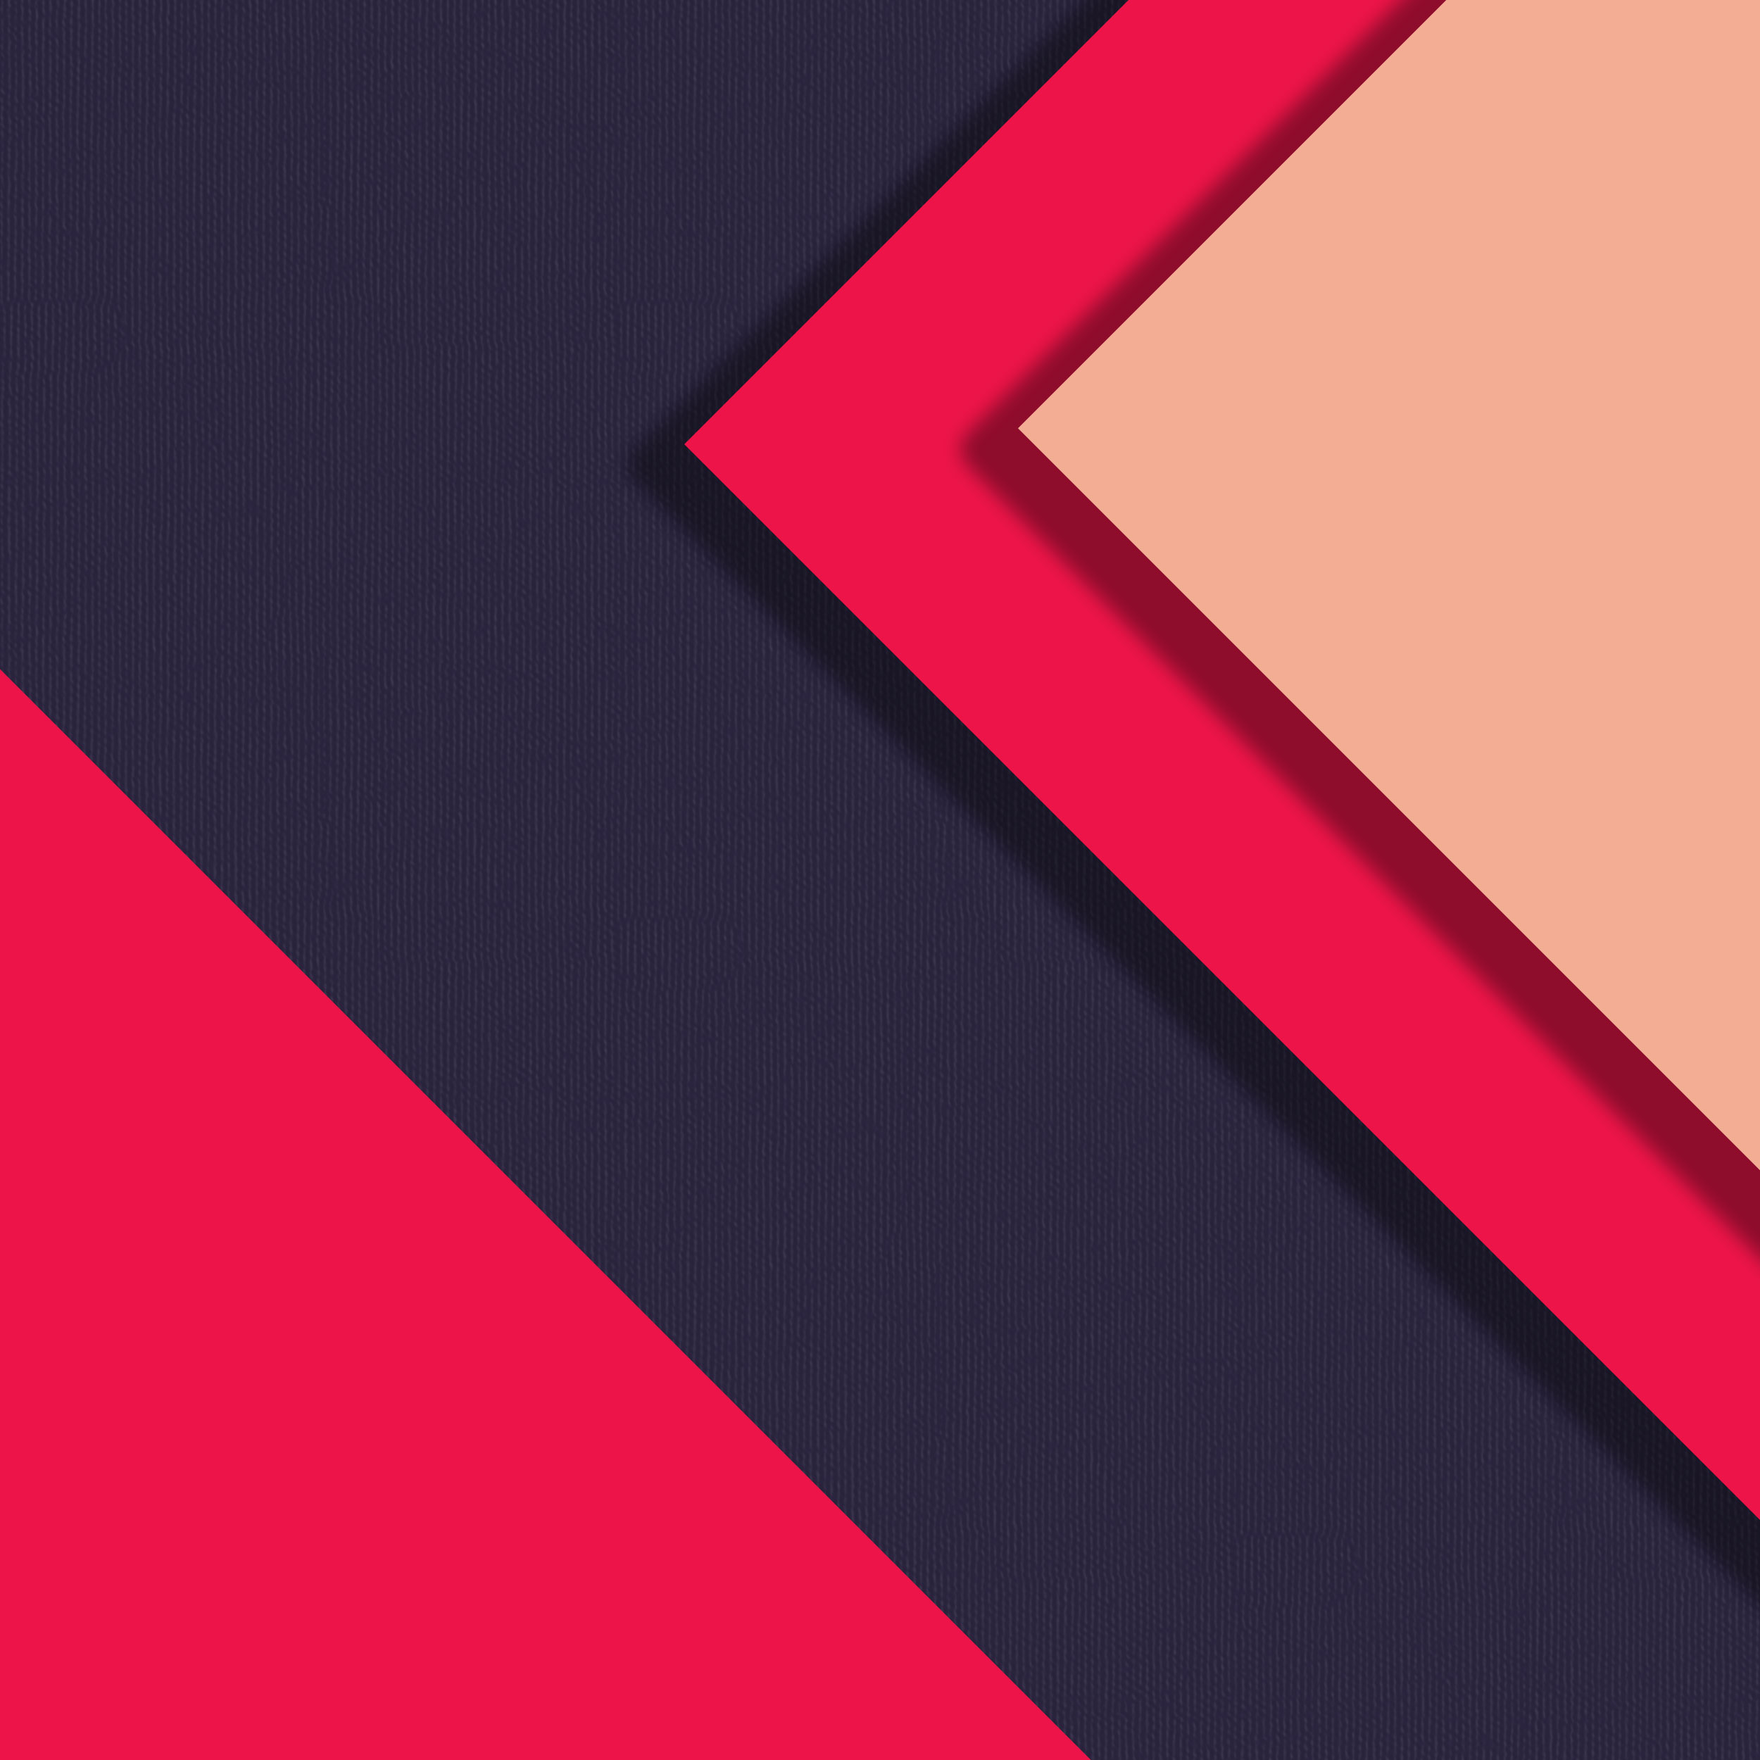
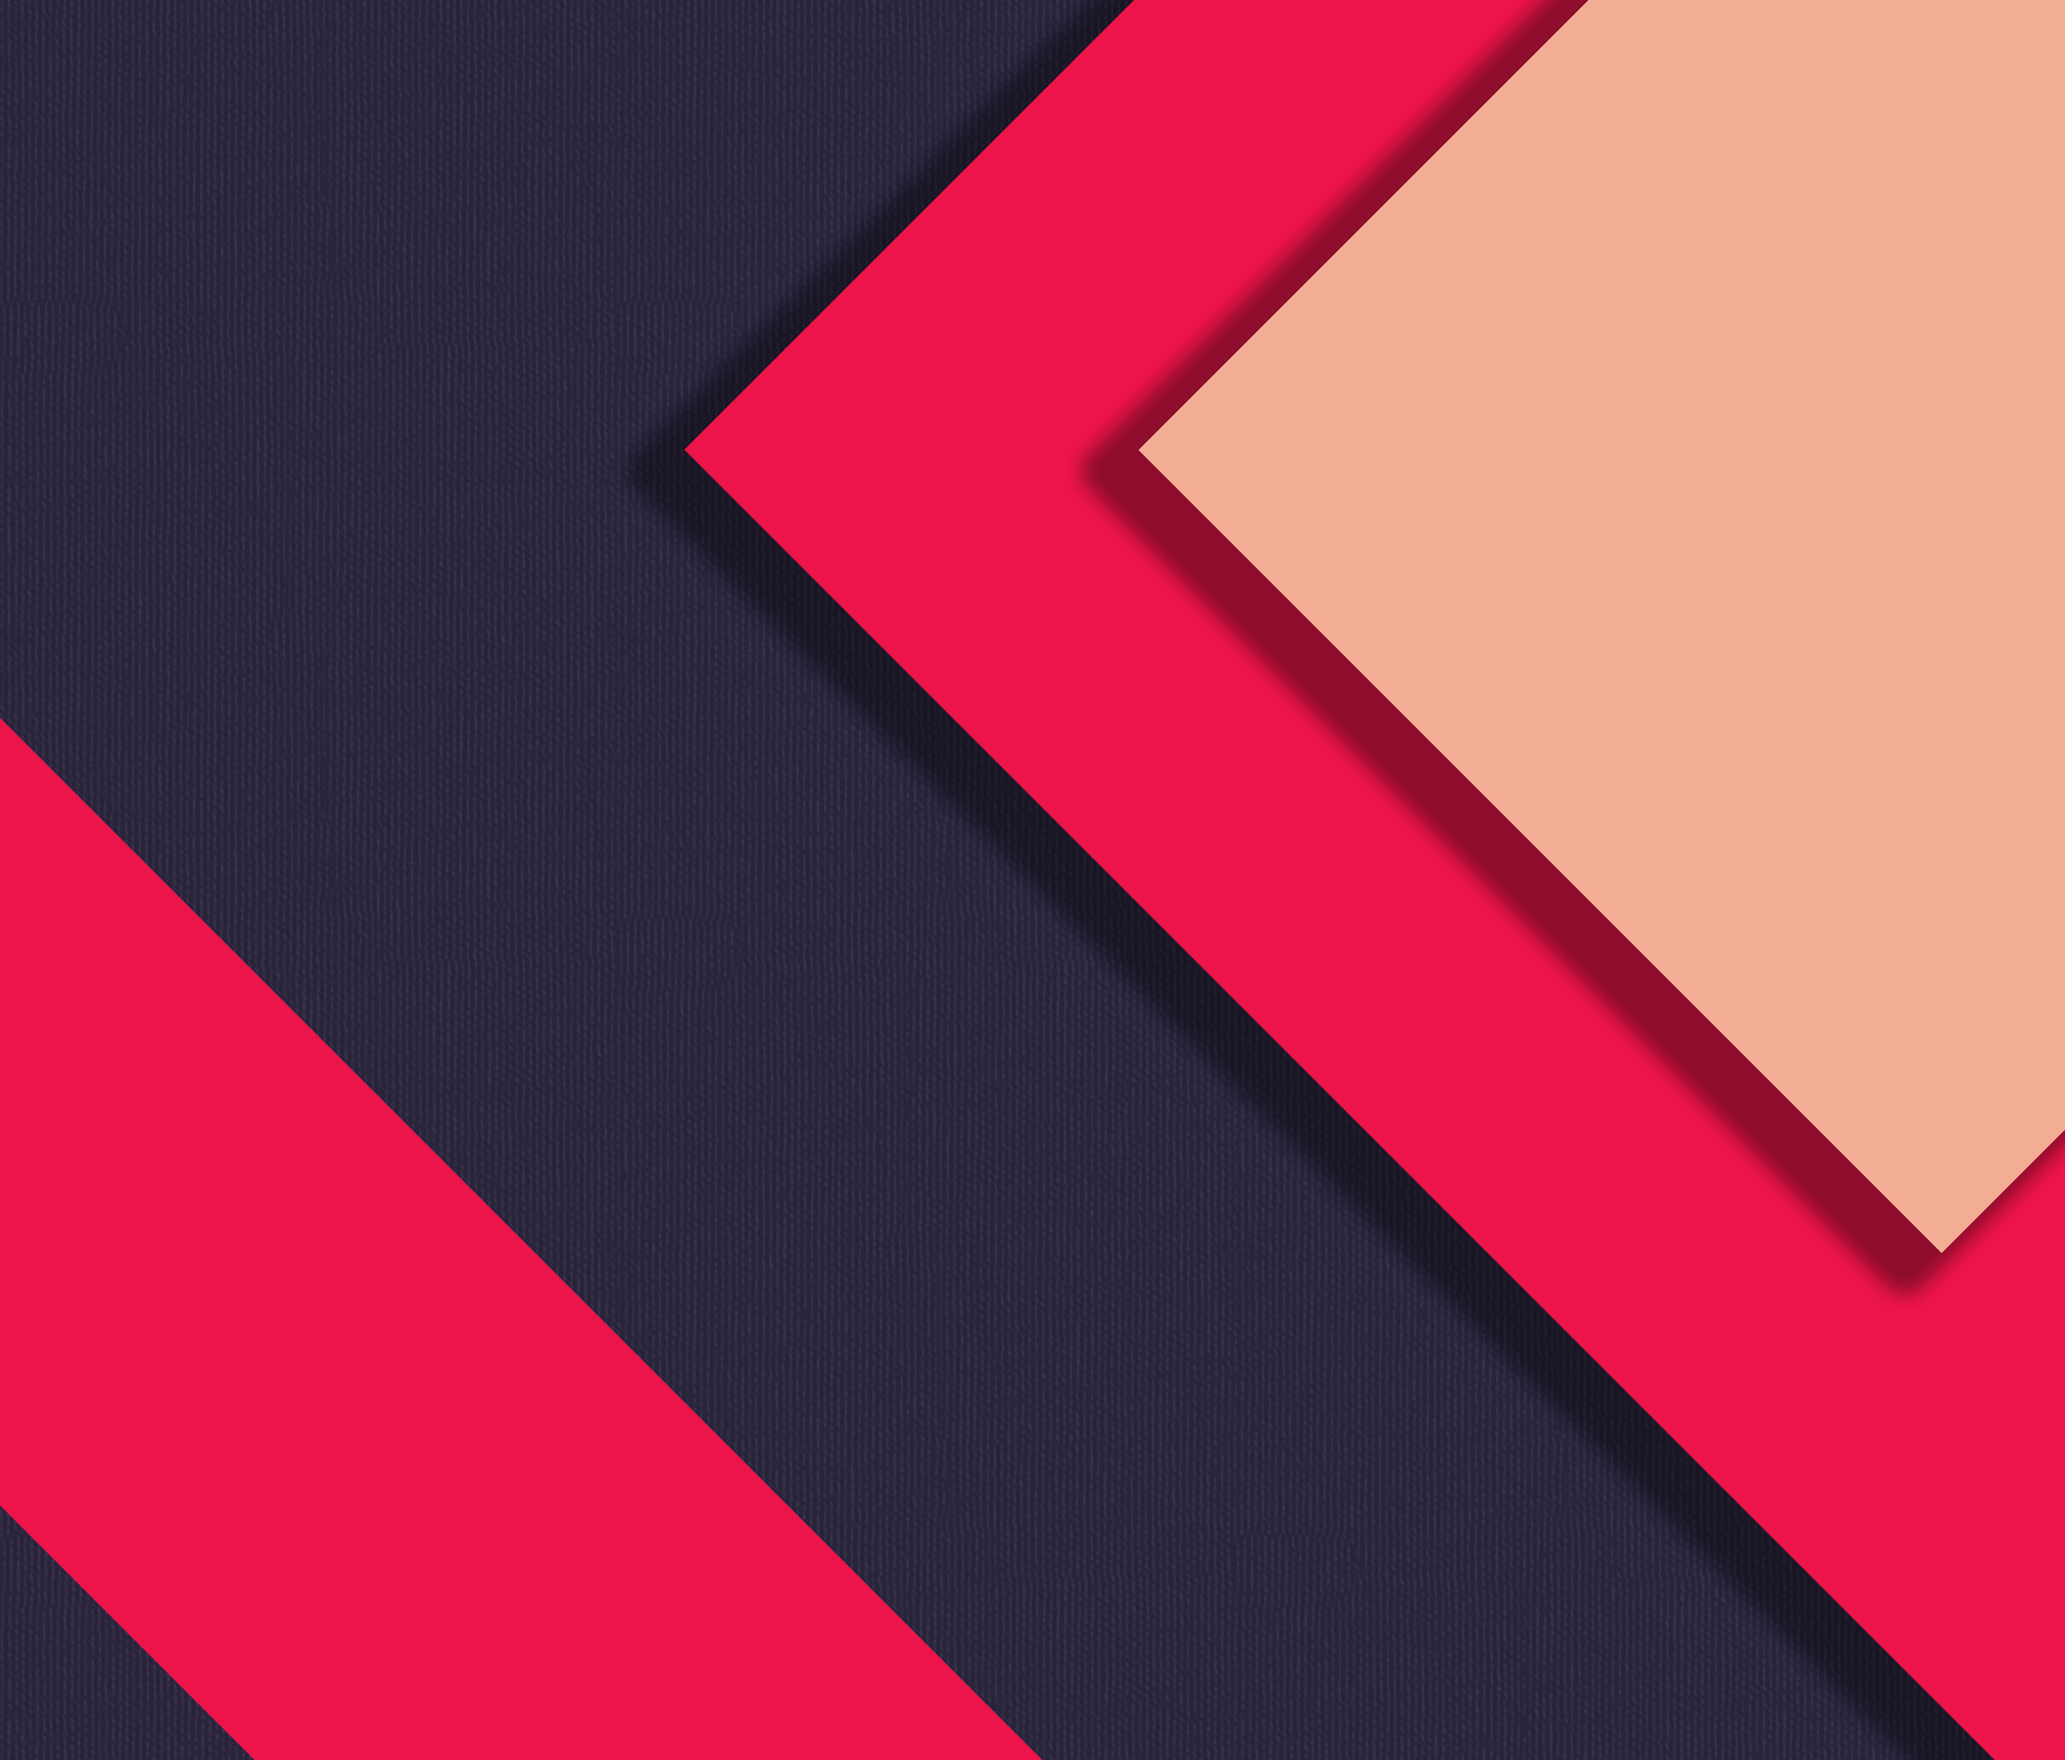
mobile bg fix

diff --git a/js/main.js b/js/main.js
@@ -78,11 +78,11 @@ function init() {
 $('#about-btn').on('click', function() {
   if ($(window).width() < 768) {
     $('body').css({
-      'background-position': '-450px -209px'
+      'background-position': '-450px -215px'
     });
   } else {
     $('body').css({
-      'background-position': '0 -250px'
+      'background-position': '0 -260px'
     });
   }
 });
@@ -90,11 +90,11 @@ $('#about-btn').on('click', function() {
 $('#return-about').on('click', function() {
   if ($(window).width() < 768) {
     $('body').css({
-      'background-position': '-850px -209px'
+      'background-position': '-850px -215px'
     });
   } else {
     $('body').css({
-      'background-position': '-450px -250px'
+      'background-position': '-450px -260px'
     });
   }
 });
@@ -102,11 +102,11 @@ $('#return-about').on('click', function() {
 $('#portfolio-btn').on('click', function() {
   if ($(window).width() < 768) {
     $('body').css({
-      'background-position': '-1250px -209px'
+      'background-position': '-1250px -215px'
     });
   } else {
     $('body').css({
-      'background-position': '-900px -250px'
+      'background-position': '-900px -260px'
     });
   }
 });
@@ -114,11 +114,11 @@ $('#portfolio-btn').on('click', function() {
 $('#return-portfolio').on('click', function() {
   if ($(window).width() < 768) {
     $('body').css({
-      'background-position': '-850px -209px'
+      'background-position': '-850px -215px'
     });
   } else {
     $('body').css({
-      'background-position': '-450px -250px'
+      'background-position': '-450px -260px'
     });
   }
 });

diff --git a/build/main.css b/build/main.css
@@ -1,6 +1,6 @@
 body {
   background-image: url(../img/bg.jpg);
-  background-position: -450px -250px;
+  background-position: -450px -260px;
   font-family: 'Raleway', sans-serif;
   overflow-x: hidden;
   margin: 0px;
@@ -1260,7 +1260,7 @@ th {
 
 @media (max-width: 768px) {
   body {
-    background-position: -850px -209px; }
+    background-position: -850px -215px; }
     body #title, body #about, body #portfolio, body .contact {
       padding: 20px; }
       body #title h2, body #about h2, body #portfolio h2, body .contact h2 {

diff --git a/sass/_global.sass b/sass/_global.sass
@@ -1,7 +1,7 @@
 body
   background:
     image: url(../img/bg.jpg)
-    position: -450px -250px
+    position: -450px -260px
   font-family: 'Raleway', sans-serif
   overflow-x: hidden
   margin: 0px

diff --git a/sass/_mobile.sass b/sass/_mobile.sass
@@ -2,7 +2,7 @@
 
   //  GLOBAL
   body
-    background-position: -850px -209px
+    background-position: -850px -215px
 
     #title, #about, #portfolio, .contact
       padding: 20px
